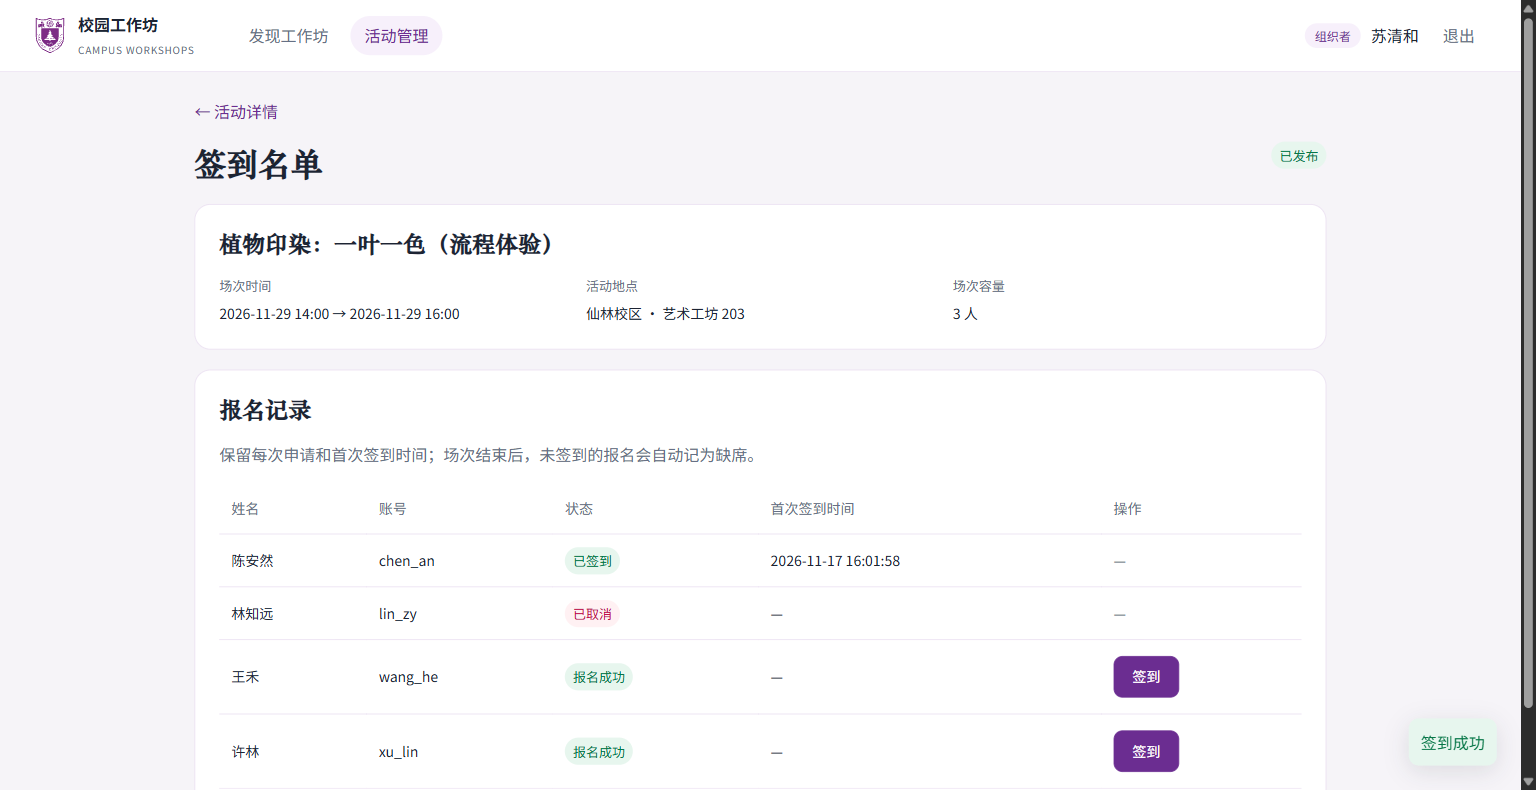
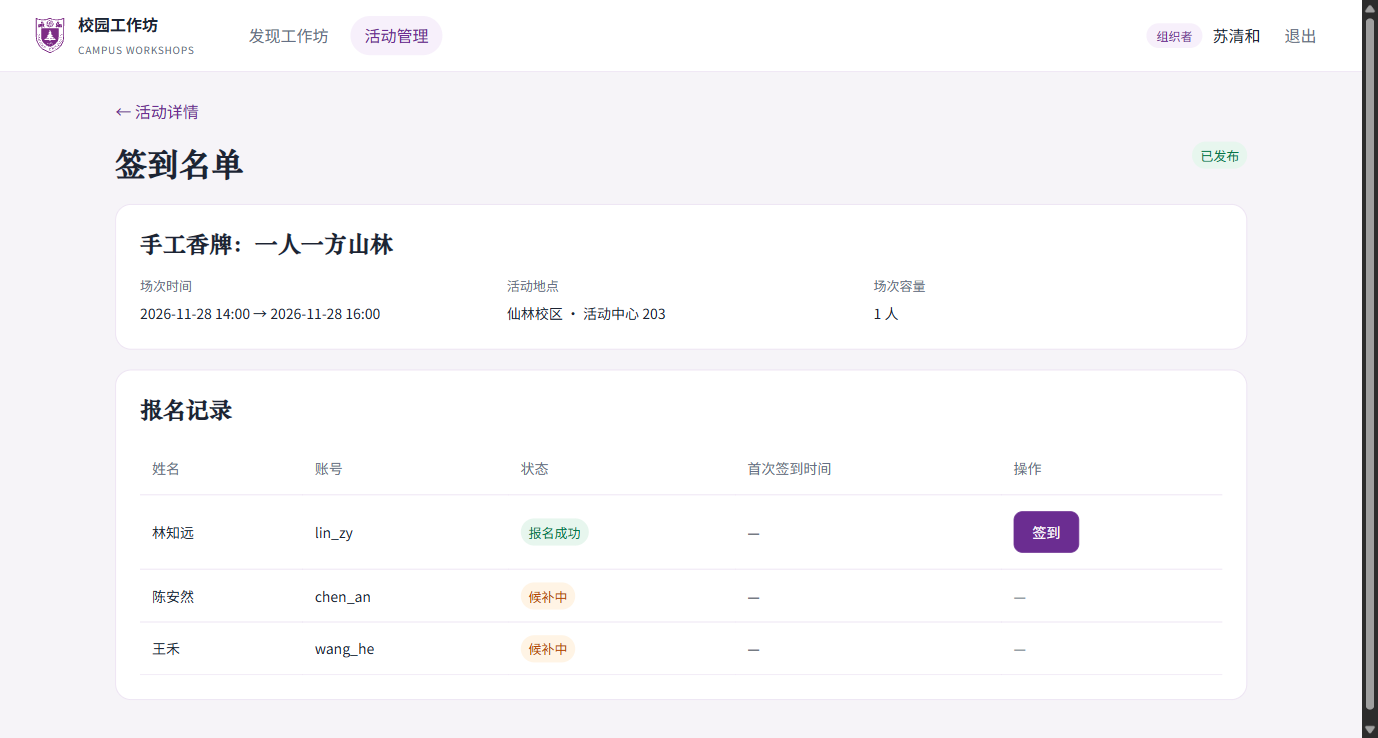
精简页面文案并优先展示可参与场次

diff --git a/code/src/main/resources/templates/organizer-activity.html b/code/src/main/resources/templates/organizer-activity.html
@@ -39,7 +39,6 @@
       </div>
       <p class="revision-feedback" role="status"
           th:if="${activity.revisionStatus != null and activity.revisionStatus.name() == 'REJECTED'}">本次内容修改已驳回，当前公开内容保持不变，可修改后重新提交。</p>
-      <p class="muted">名称和简介修改通过审核后更新，审核期间继续展示当前公开内容。</p>
       <div th:if="${activity.revisionPending}">
         <h3 class="revision-name" th:text="${activity.pendingName}">待审名称</h3>
         <p class="activity-description" th:text="${activity.pendingDescription}">待审简介</p>
@@ -55,7 +54,7 @@
     <section class="management-card">
       <div class="page-head"><h2>活动场次</h2><span class="muted"
           th:text="'共 ' + ${#lists.size(activity.sessions)} + ' 个场次'">场次数量</span></div>
-      <p class="empty" th:if="${#lists.isEmpty(activity.sessions)}">添加至少一个场次后即可提交审核。</p>
+      <p class="empty" th:if="${#lists.isEmpty(activity.sessions)}">暂无场次。</p>
       <details class="session-editor" th:each="item : ${activity.sessions}"
           th:id="'session-' + ${item.id}" th:open="${editSessionId == item.id}">
         <summary>
@@ -82,7 +81,6 @@
         <form class="session-submit" th:if="${activity.published() and item.editable()}"
             th:action="@{/organizer/activities/{id}/sessions/{sid}/submit(id=${activity.id},sid=${item.id})}"
             method="post">
-          <p class="muted">保存后提交此场次，审核通过后自动发布。</p>
           <button type="submit">提交此场次审核</button>
         </form>
         <dl class="review-facts" th:unless="${(activity.editable() or activity.published()) and item.editable()}">
@@ -96,7 +94,6 @@
           <label>调整容量<input type="number" name="capacity" min="0" max="2147483647"
               required th:value="${item.capacity}"></label>
           <button type="submit">保存容量</button>
-          <span class="muted">增加名额后按候补顺序自动递补。</span>
         </form>
         <div class="session-operations">
           <a class="management-link"
@@ -113,7 +110,6 @@
     </section>
     <section class="management-card" th:if="${activity.cancellable(now)}">
       <h2>取消活动</h2>
-      <p class="muted">取消尚未结束的场次及其有效报名，已结束场次与记录保留。</p>
       <form class="lifecycle-form" th:action="@{/organizer/activities/{id}/cancel(id=${activity.id})}"
           method="post">
         <button class="danger-button" type="submit">取消整个活动</button>
@@ -121,7 +117,6 @@
     </section>
     <section class="management-card" th:if="${activity.editable() or activity.published()}">
       <h2>添加场次</h2>
-      <p class="muted" th:if="${activity.published()}">新场次保存为草稿，需单独提交审核。</p>
       <form class="management-form session-fields"
           th:action="@{/organizer/activities/{id}/sessions(id=${activity.id})}" method="post">
         <label>开始时间<input type="datetime-local" name="startTime" step="1" required
@@ -139,7 +134,6 @@
     </section>
     <form class="submit-review" th:if="${activity.editable()}"
         th:action="@{/organizer/activities/{id}/submit(id=${activity.id})}" method="post">
-      <span class="muted">确认已保存的活动与场次信息后，提交管理员审核。</span>
       <button type="submit" th:disabled="${#lists.isEmpty(activity.sessions)}">提交审核</button>
     </form>
   </main>

diff --git a/code/src/main/resources/static/css/activity-management.css b/code/src/main/resources/static/css/activity-management.css
@@ -66,9 +66,8 @@
 .session-fields { grid-template-columns: repeat(2, minmax(0, 1fr)); }
 .session-editor .session-fields { padding-bottom: 22px; }
 .full-width { grid-column: 1 / -1; }
-.submit-review { display: flex; align-items: center; justify-content: space-between; gap: 20px; margin-top: 24px; }
+.submit-review { display: flex; align-items: center; justify-content: flex-end; gap: 20px; margin-top: 24px; }
 .submit-review button { flex-shrink: 0; }
-.submit-review .muted { font-size: 14px; }
 .review-actions { justify-content: end; margin-top: 24px; }
 .review-session + .review-session { border-top: 1px solid var(--line); margin-top: 20px; padding-top: 20px; }
 .review-session h3 { margin: 0; font-size: 18px; }
@@ -77,7 +76,6 @@
 .review-facts dd { margin: 0; font-size: 14px; line-height: 1.7; overflow-wrap: anywhere; }
 .session-editor .review-facts { margin: 0 0 22px; }
 .session-submit { padding-bottom: 22px; }
-.session-submit .muted { margin-top: 0; font-size: 14px; }
 .revision-comparison { display: grid; grid-template-columns: repeat(2, minmax(0, 1fr)); gap: 20px; }
 .revision-panel { padding: 18px; border: 1px solid var(--line); border-radius: 12px; min-width: 0; }
 .revision-label { color: var(--purple); font-size: 14px; margin: 0 0 12px; }
@@ -89,7 +87,6 @@
 .capacity-form { display: flex; flex-wrap: wrap; align-items: end; gap: 12px; margin-bottom: 22px; }
 .capacity-form label { display: grid; gap: 7px; font-size: 14px; }
 .capacity-form input { width: 140px; padding: 10px 12px; border: 1px solid #e4dcea; border-radius: 8px; }
-.capacity-form .muted { align-self: center; font-size: 13px; }
 .attendance-scroll { overflow-x: auto; }
 .attendance-table { width: 100%; min-width: 640px; border-collapse: collapse; text-align: left; font-size: 14px; }
 .attendance-table th { color: var(--muted); font-weight: 400; }

diff --git a/code/src/main/resources/templates/my-registrations.html b/code/src/main/resources/templates/my-registrations.html
@@ -14,13 +14,11 @@
     <div class="page-head">
       <div>
         <h1>我的报名</h1>
-        <p class="muted">记录每一次申请，查看报名与候补结果。</p>
       </div>
       <a class="discover-link" href="/workshops">发现工作坊</a>
     </div>
     <section class="registrations-empty" th:if="${#lists.isEmpty(registrations)}">
       <h2>还没有报名记录</h2>
-      <p class="muted">去发现感兴趣的工作坊，开启一场新的体验。</p>
       <a class="discover-link" href="/workshops">发现工作坊</a>
     </section>
     <section th:unless="${#lists.isEmpty(registrations)}" aria-label="报名记录">
@@ -41,10 +39,6 @@
               <dd th:text="${#temporals.format(item.registeredAt, 'yyyy-MM-dd HH:mm')}">申请时间</dd>
             </div>
           </dl>
-          <div class="registration-meta"
-              th:if="${item.status.name() == 'WAITLIST' and item.waitlistOrder != null}">
-            <span th:text="'候补序号 ' + ${item.waitlistOrder}">候补序号</span>
-          </div>
           <div class="registration-actions">
             <form class="lifecycle-form" th:if="${item.cancellable(now)}"
                 th:action="@{/me/sessions/{sid}/registrations/{rid}/cancel(sid=${item.sessionId},rid=${item.id})}"

diff --git a/code/src/main/resources/static/css/registrations.css b/code/src/main/resources/static/css/registrations.css
@@ -1,5 +1,4 @@
 .registrations-page .page-head { margin-bottom: 24px; }
-.registrations-page .page-head p { margin-bottom: 0; }
 .discover-link { color: var(--purple); text-underline-offset: 4px; white-space: nowrap; }
 .registrations-page .list-head { margin-bottom: 16px; }
 .registration-list { background: #fff; border: 1px solid var(--line); border-radius: 16px; overflow: hidden; }
@@ -11,7 +10,6 @@
 .registration-facts { display: grid; grid-template-columns: minmax(0, 1.5fr) minmax(0, 1fr) minmax(0, .9fr); gap: 20px; margin: 20px 0; }
 .registration-facts dt { margin-bottom: 7px; font-size: 12px; color: var(--muted); }
 .registration-facts dd { margin: 0; font-size: 14px; line-height: 1.8; overflow-wrap: anywhere; }
-.registration-meta { display: flex; flex-wrap: wrap; gap: 10px 24px; color: var(--muted); font-size: 12px; }
 .registration-actions { display: flex; align-items: center; gap: 16px; }
 .registration-actions:has(> *) { margin-top: 18px; }
 .registrations-empty { padding: 48px 24px; text-align: center; background: #fff; border: 1px solid var(--line); border-radius: 16px; }

diff --git a/code/src/main/resources/static/css/site.css b/code/src/main/resources/static/css/site.css
@@ -88,16 +88,6 @@ h1, h2, h3 { font-family: var(--font-heading); }
 }
 .hero h1 { font-size: 40px; line-height: 1.25; margin: 12px 0; }
 .eyebrow { letter-spacing: .14em; font-size: 12px; opacity: .8; }
-.hero-notes { display: flex; gap: 16px; align-items: end; margin-top: 48px; }
-.hero-card, .hero-chip {
-  background: #efe4f7;
-  color: var(--purple-deep);
-  border-radius: 18px;
-  padding: 22px;
-}
-.hero-card { width: 58%; min-height: 140px; transform: rotate(-6deg); }
-.hero-chip { background: #fff; margin-bottom: 18px; }
-.hero-chip span { display: block; color: var(--purple); font-size: 12px; margin-top: 8px; }
 .hero-foot { position: absolute; left: 42px; bottom: 28px; opacity: .85; }
 
 .panel {
@@ -107,7 +97,7 @@ h1, h2, h3 { font-family: var(--font-heading); }
   align-self: center;
   box-shadow: 0 10px 30px rgba(84, 36, 116, .06);
 }
-.panel h2 { margin: 0 0 4px; }
+.panel h2 { margin: 0 0 20px; }
 .muted { color: var(--muted); }
 .panel form, .filters { display: grid; gap: 14px; }
 .panel label, .filters label { display: grid; gap: 6px; font-size: 14px; }

diff --git a/code/src/main/resources/templates/organizer-activities.html b/code/src/main/resources/templates/organizer-activities.html
@@ -11,13 +11,12 @@
   <div th:replace="~{fragments/header :: bar('manage')}"></div>
   <main class="sheet management">
     <div class="page-head"><h1>活动管理</h1><span class="free">我的工作坊</span></div>
-    <p class="muted">管理活动与场次，查看审核和发布状态。</p>
     <p class="error" role="alert" th:if="${message}" th:text="${message}"></p>
     <p class="ok" role="status" th:if="${notice}" th:text="${notice}"></p>
     <div class="management-grid">
       <section class="management-card">
         <h2>我的活动 <small th:text="'共 ' + ${#lists.size(activities)} + ' 个'">共 0 个</small></h2>
-        <p class="empty" th:if="${#lists.isEmpty(activities)}">还没有活动，从创建第一个工作坊开始。</p>
+        <p class="empty" th:if="${#lists.isEmpty(activities)}">暂无活动。</p>
         <div class="activity-row" th:each="item : ${activities}">
           <div>
             <a class="activity-title" th:href="@{/organizer/activities/{id}(id=${item.id})}"

diff --git a/code/src/main/resources/templates/login.html b/code/src/main/resources/templates/login.html
@@ -17,20 +17,11 @@
   <main class="login-grid">
     <section class="hero">
       <p class="eyebrow">CAMPUS WORKSHOPS</p>
-      <h1>从一场体验开始，<br>让兴趣在校园里发生。</h1>
-      <p>发现工作坊，遇见新的可能。</p>
-      <div class="hero-notes">
-        <div class="hero-card">把想法，变成亲手做出的作品。</div>
-        <div class="hero-chip">
-          <strong>一点好奇，一次尝试</strong>
-          <span>FREE / ON CAMPUS</span>
-        </div>
-      </div>
+      <h1>校园工作坊</h1>
       <p class="hero-foot">本校 · 免费 · 线下</p>
     </section>
     <section class="panel">
-      <h2>欢迎回来</h2>
-      <p class="muted">登录校园工作坊</p>
+      <h2>登录</h2>
       <form th:action="@{/login}" method="post">
         <label>账号
           <input name="username" autocomplete="username" required>

diff --git a/code/src/main/resources/templates/workshops.html b/code/src/main/resources/templates/workshops.html
@@ -14,7 +14,6 @@
     <div class="page-head">
       <div>
         <h1>发现校园工作坊</h1>
-        <p class="muted">从一场体验开始，让兴趣在校园里发生。</p>
       </div>
       <span class="free">免费线下活动</span>
     </div>
@@ -46,7 +45,6 @@
     <section th:if="${result != null}">
       <div class="list-head">
         <h2>工作坊场次 <span th:text="'共 ' + ${result.total} + ' 个场次'">共 0 个场次</span></h2>
-        <span class="muted">按开始时间从近到远</span>
       </div>
       <p class="empty" th:if="${result.total == 0}">暂无符合条件的场次</p>
       <div th:if="${result.total > 0}">

diff --git a/code/src/main/resources/templates/admin-activities.html b/code/src/main/resources/templates/admin-activities.html
@@ -11,7 +11,6 @@
   <div th:replace="~{fragments/header :: bar('manage')}"></div>
   <main class="sheet management">
     <div class="page-head"><h1>活动管理</h1><span class="free">全平台活动</span></div>
-    <p class="muted">查看活动与场次，处理尚未结束的活动取消。</p>
     <section class="management-card">
       <h2>全部活动 <small th:text="'共 ' + ${#lists.size(activities)} + ' 个'">共 0 个</small></h2>
       <p class="empty" th:if="${#lists.isEmpty(activities)}">暂无活动。</p>

diff --git a/code/src/main/resources/templates/admin-reviews.html b/code/src/main/resources/templates/admin-reviews.html
@@ -12,7 +12,6 @@
   <main class="sheet management">
     <div class="page-head"><h1>审核管理</h1><span class="free"
         th:text="${#lists.size(requests)} + ' 个待审核申请'">待审核数量</span></div>
-    <p class="muted">核对首次发布、内容修改和新增场次申请，审核通过后自动更新。</p>
     <p class="error" role="alert" th:if="${message}" th:text="${message}"></p>
     <p class="ok" role="status" th:if="${notice}" th:text="${notice}"></p>
     <section class="management-card">

diff --git a/code/src/main/resources/templates/admin-activity.html b/code/src/main/resources/templates/admin-activity.html
@@ -49,7 +49,6 @@
     </section>
     <section class="management-card" th:if="${activity.cancellable(now)}">
       <h2>取消活动</h2>
-      <p class="muted">取消尚未结束的场次及其有效报名，已结束场次与记录保留。</p>
       <form class="lifecycle-form" th:action="@{/admin/activities/{id}/cancel(id=${activity.id})}"
           method="post">
         <button class="danger-button" type="submit">取消整个活动</button>

diff --git a/code/src/main/resources/templates/attendance.html b/code/src/main/resources/templates/attendance.html
@@ -30,7 +30,6 @@
     </section>
     <section class="management-card">
       <h2>报名记录</h2>
-      <p class="muted">保留每次申请和首次签到时间；场次结束后，未签到的报名会自动记为缺席。</p>
       <p class="empty" th:if="${#lists.isEmpty(attendees)}">此场次暂无报名记录。</p>
       <div class="attendance-scroll" th:unless="${#lists.isEmpty(attendees)}">
         <table class="attendance-table">
